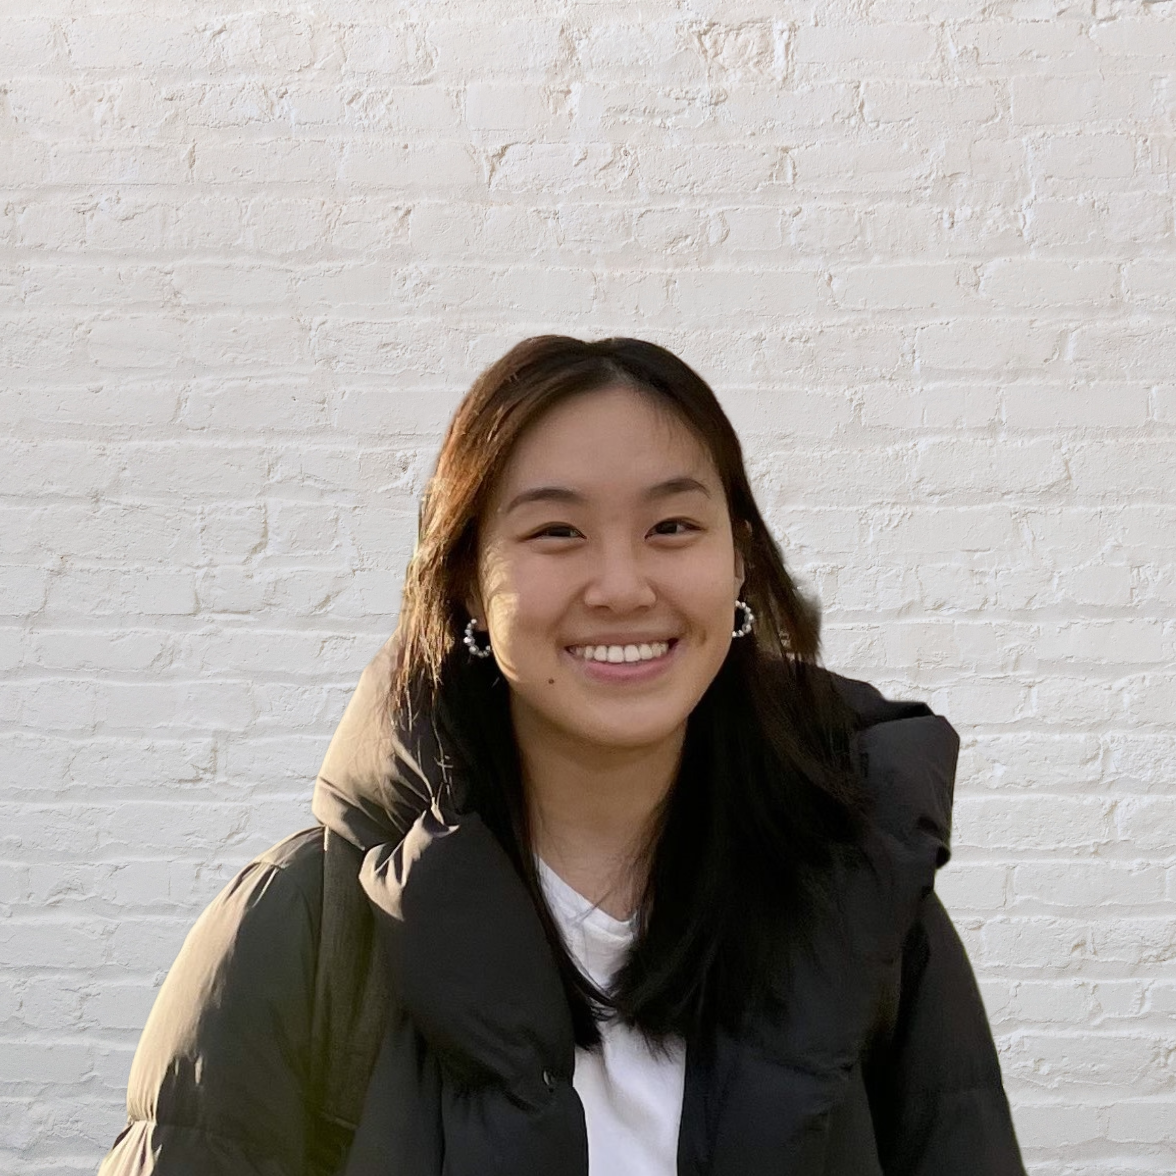
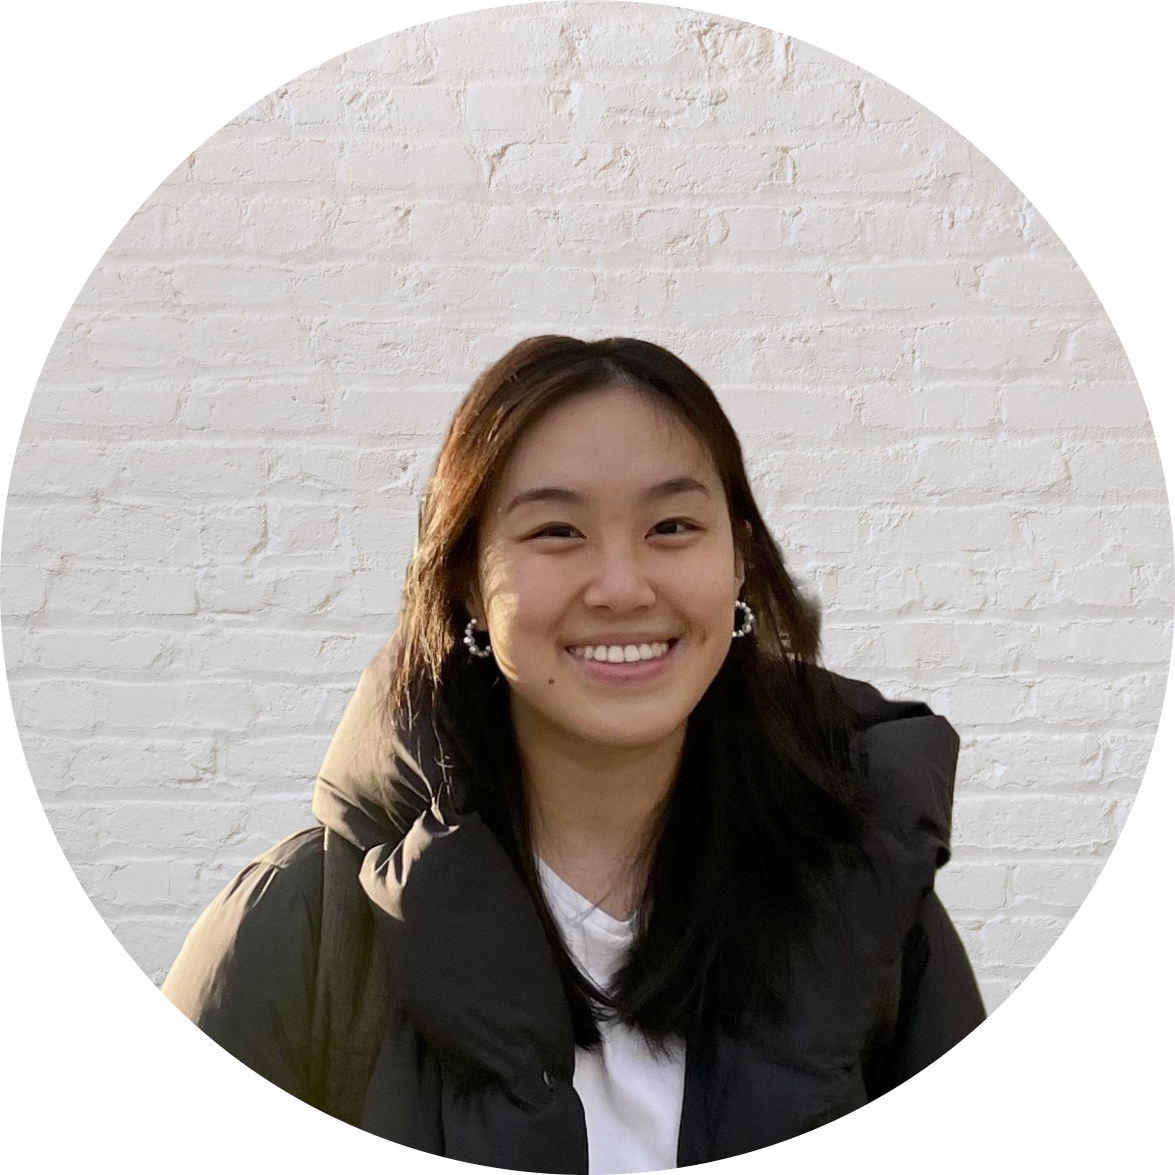
new look

diff --git a/layouts/partials/home/profile.html b/layouts/partials/home/profile.html
@@ -1,44 +1,29 @@
 {{ $disableImageOptimization := .Site.Params.disableImageOptimization | default false }}
-<article
-  class="{{ if not .Site.Params.homepage.showRecent }}
-    h-full
-  {{ end }} flex flex-col items-center justify-center text-center"
->
-  <header class="flex flex-col items-center mb-3">
+<article class="{{ if not .Site.Params.homepage.showRecent }}h-full{{ end }} text-left" style="margin-bottom: 120px;">
+  <div class="flex justify-center mb-3">
     {{ with .Site.Author.image }}
       {{ $authorImage := resources.Get . }}
-      {{ if $authorImage }}
-        {{ if not $disableImageOptimization }}
-        {{ $authorImage = $authorImage.Fill "288x288" }}
+      {{ with $authorImage }}
+        {{ $authorImage = $authorImage.Resize "800x800" }}
+        <img class="mb-3 h-60 w-60"
+             style="width: auto; height: 32vh"
+             alt="{{ $.Site.Author.name | default "Author" }}"
+             src="{{ $authorImage.RelPermalink }}">
         {{ end }}
-        <img
-          class="mb-2 rounded-full h-40 w-40"
-          width="225"
-          height="225"
-          alt="{{ $.Site.Author.name | default "Author" }}"
-          src="{{ $authorImage.RelPermalink }}"
-        />
+    {{ end }}
+    <div class="ml-4" style="margin-left: 90px;">
+      <h1 class="text-4xl font-extrabold">{{ .Site.Author.name | default .Site.Title }}</h1>
+      {{ with .Site.Author.headline }}
+        <h2 class="text-lg text-neutral-500 dark:text-neutral-400">{{ . | markdownify | emojify }}</h2>
       {{ end }}
-    {{ end }}
-    <h1 class="text-4xl font-extrabold">
-      {{ .Site.Author.name | default .Site.Title }}
-    </h1>
-    {{ with .Site.Author.headline }}
-      <h2 class="text-xl text-neutral-500 dark:text-neutral-400">
-        {{ . | markdownify | emojify }}
-      </h2>
-    {{ end }}
-    <div class="mt-1 text-2xl">
-      {{ partialCached "author-links.html" . }}
+      <div class="mt-1 text-2xl">{{ partialCached "author-links.html" . }}</div>
+      <div style="margin-top: 20px" class="text-sm text-neutral-500 dark:text-neutral-400 prose dark:prose-invert">
+        {{ .Content | emojify }}
+      </div>
     </div>
-  </header>
-  <div>
-    <section
-      style="padding-left:0;padding-right:0;padding-top:30px;padding-bottom:30px"
-      class="text-x2 text-neutral-500 dark:text-neutral-400 prose dark:prose-invert">
-      {{ .Content | emojify }}</section>
   </div>
 </article>
+
 <section>
   {{ partial "recent-articles/main.html" . }}
 </section>

diff --git a/layouts/partials/recent-articles/main.html b/layouts/partials/recent-articles/main.html
@@ -1,0 +1,30 @@
+{{ $recentArticles := 5 }}
+{{ $showMoreLinkDest := "/posts" }}
+{{ if .Site.Params.homepage.showRecent | default false }}
+{{ if index .Site.Params.homepage "showRecentItems" }}
+{{ $recentArticles = .Site.Params.homepage.showRecentItems }}
+{{ end }}
+<h2 class="mt-8 text-2xl font-bold mb-10">Recent Projects</h2>
+
+{{ if and .Site.Params.homepage.cardView (not .Site.Params.homepage.cardViewScreenWidth) | default false }}
+  {{ partial "recent-articles/cardview.html" . }}
+{{ else if and .Site.Params.homepage.cardView .Site.Params.homepage.cardViewScreenWidth | default false }}
+  {{ partial "recent-articles/cardview-fullwidth.html" . }}
+{{ else }}
+  {{ partial "recent-articles/list.html" . }}
+{{ end }}
+
+{{ if .Site.Params.homepage.showMoreLink | default false }}
+{{ if index .Site.Params.homepage "showRecentItems" }}
+{{ $showMoreLinkDest = .Site.Params.homepage.showMoreLinkDest }}
+{{ end }}
+<div class="mt-10 flex justify-center">
+  <a href="{{ $showMoreLinkDest }}">
+    <button
+      class="bg-transparent hover:text-primary-500 prose dark:prose-invert font-semibold hover:text-white py-2 px-4 border border-primary-500 hover:border-transparent rounded">
+      {{ i18n "recent.show_more" | markdownify | emojify }}
+    </button>
+  </a>
+</div>
+{{ end }}
+{{ end }}

diff --git a/layouts/partials/author-links.html b/layouts/partials/author-links.html
@@ -1,0 +1,16 @@
+{{ with .Site.Author.links }}
+  <div class="flex flex-wrap text-neutral-600 dark:text-neutral-500">
+    {{ range $links := . }}
+      {{ range $name, $url := $links }}
+        <a
+          class="px-1 hover:text-primary-700 dark:hover:text-primary-400"
+          href="{{ $url | safeURL }}"
+          target="_blank"
+          aria-label="{{ $name | title }}"
+          rel="me noopener noreferrer"
+          ><span class="inline-block align-text-bottom">{{ partial "icon.html" $name }}</span></a
+        >
+      {{ end }}
+    {{ end }}
+  </div>
+{{ end }}
